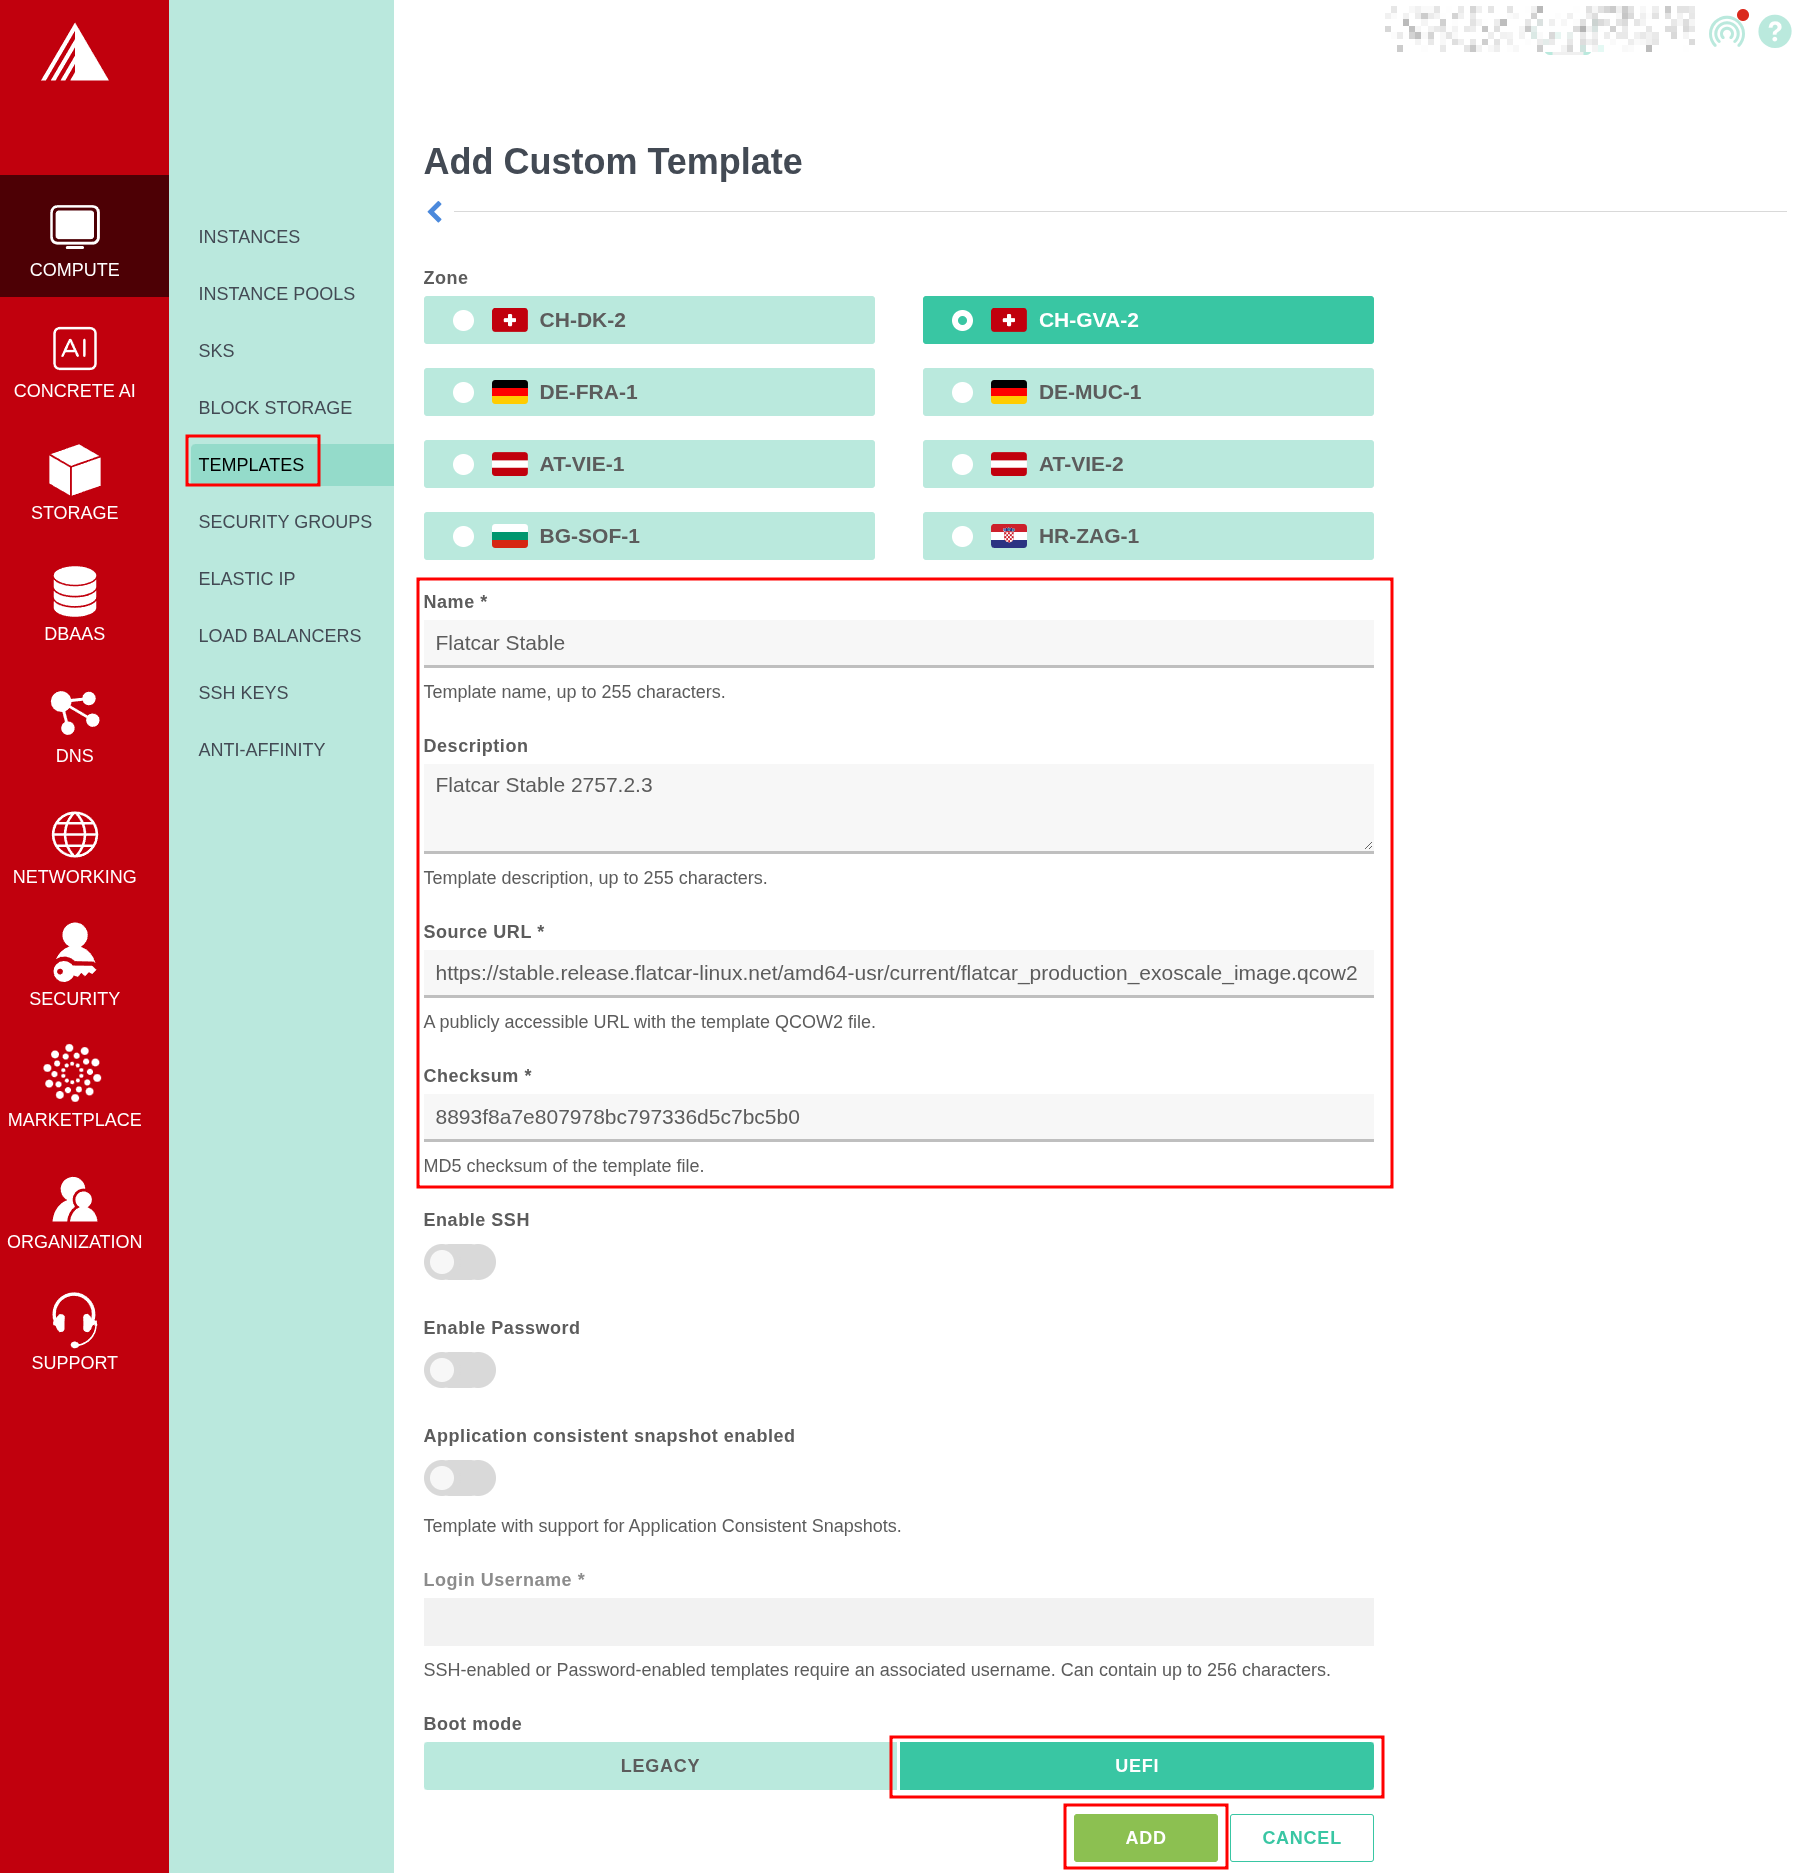
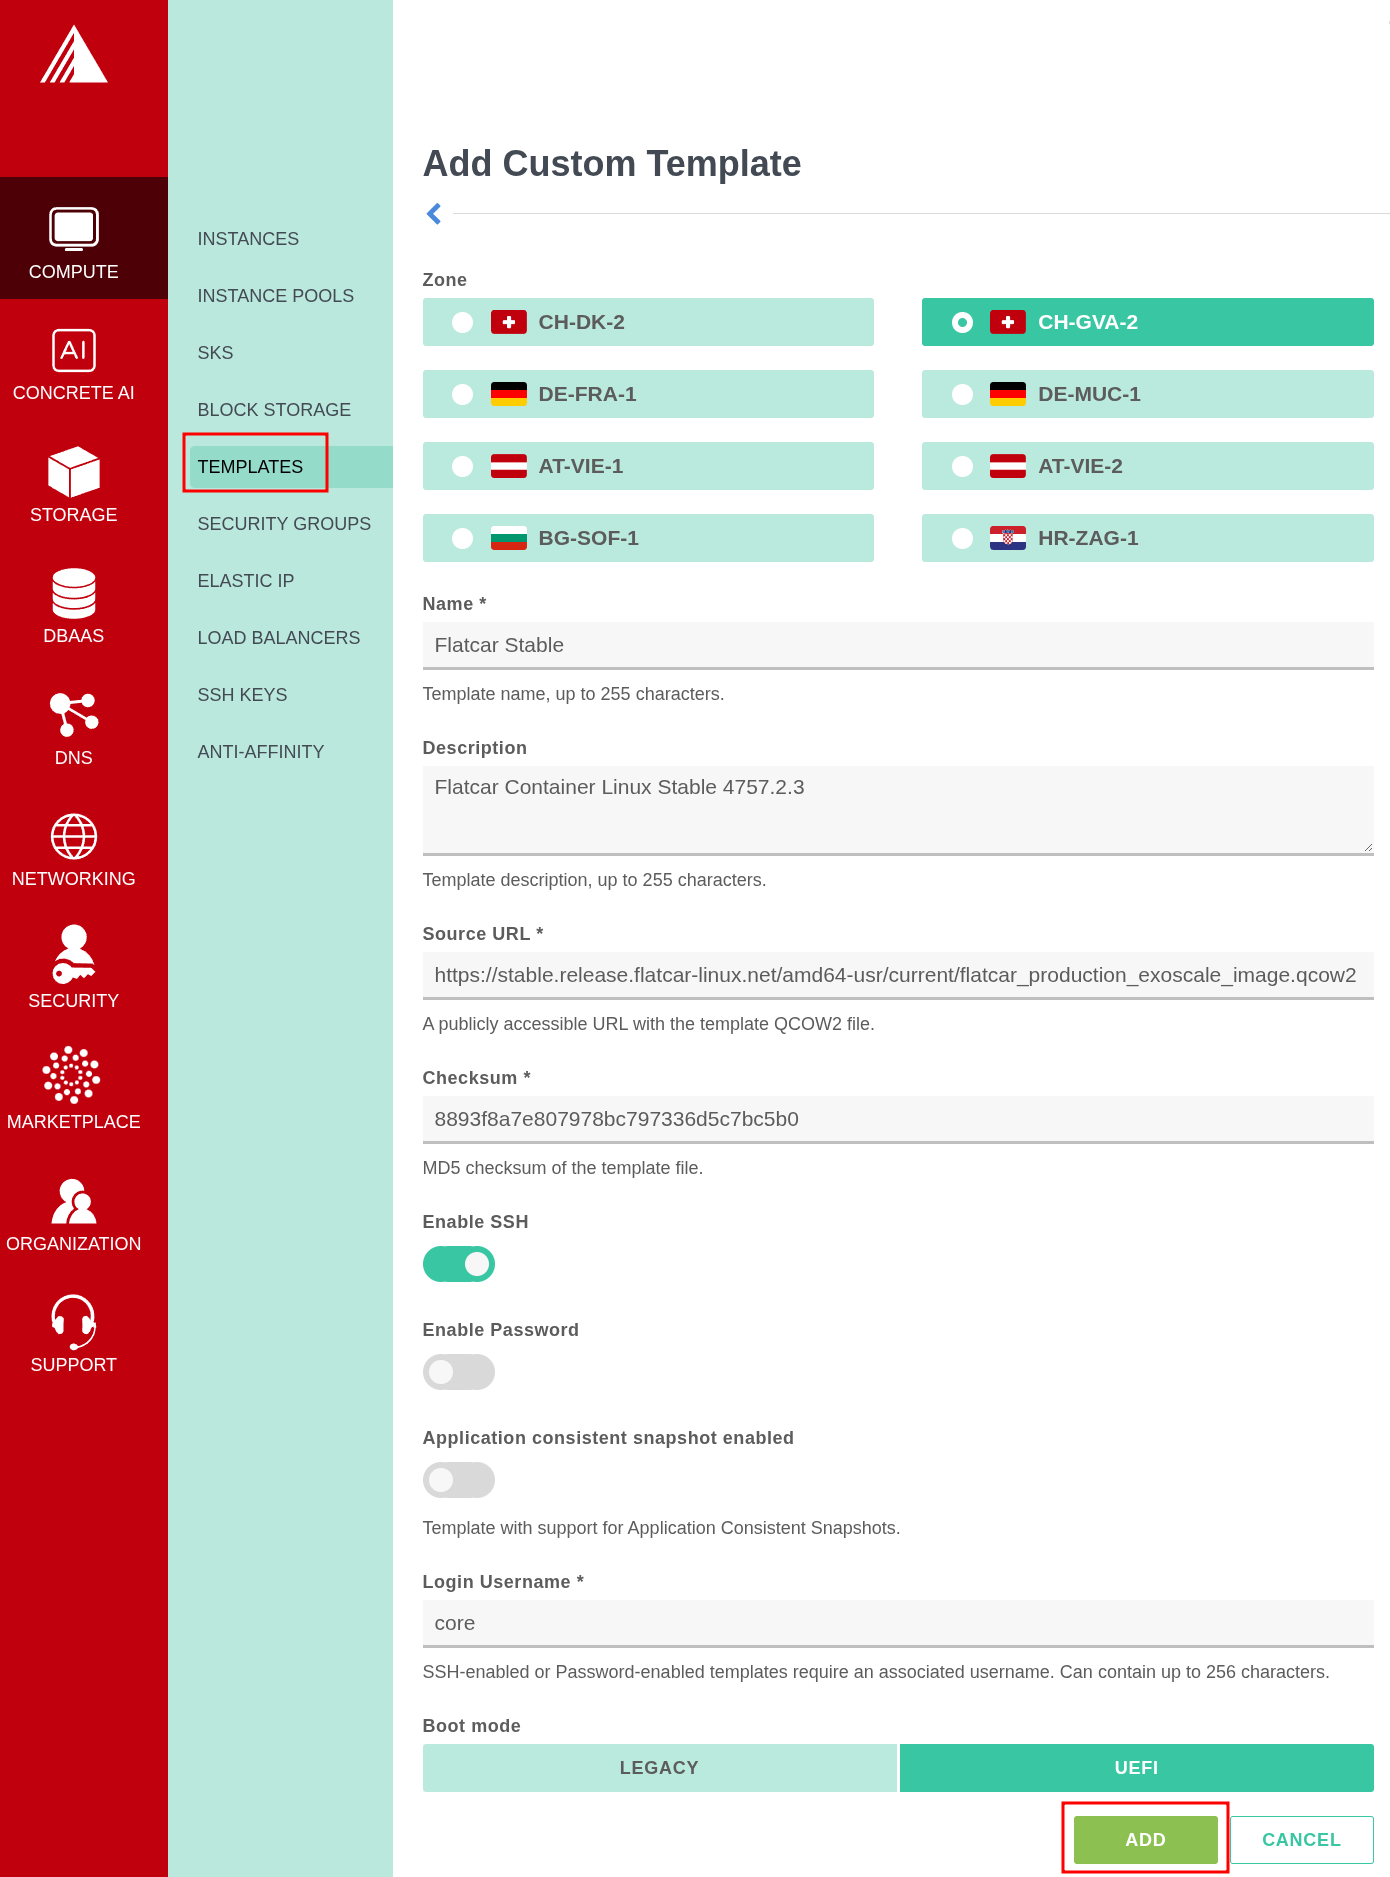
exoscale: document optional Exoscale SSH keypair setup
Add an optional section explaining how to register an SSH public key in
Exoscale via the Console or exo CLI and attach it during instance
creation. Clarify that the Exoscale OEM extension fetches the key from
the metadata service on boot.

diff --git a/content/docs/latest/deploy/cloud/exoscale.md b/content/docs/latest/deploy/cloud/exoscale.md
@@ -46,6 +46,35 @@ exo compute security-group rule add default --network ::/0 --port 22
 </div>
 </div>
 
+## SSH keys (optional)
+
+You can authorize SSH keys for the `core` user either through your [Butane Config](#butane-config) or by registering an [SSH keypair in Exoscale][exo-ssh-keys]. When an Exoscale SSH key is attached to an instance at creation time, the Flatcar Exoscale [OEM system extension][oem-sysext] ([`exoscale-ssh-key.service`][exo-oem-ssh]) automatically fetches the public key from the Exoscale metadata service on boot and adds it to the `core` user.
+
+<div id="exoscale-ssh-keys">
+<ul class="nav nav-tabs">
+  <li class="active"><a href="#ssh-console" class="active" data-bs-toggle="tab">Exoscale Console (Web UI)</a></li>
+  <li><a href="#ssh-cli" data-bs-toggle="tab">Exoscale CLI</a></li>
+</ul>
+<div class="tab-content coreos-docs-image-table">
+<div class="tab-pane active" id="ssh-console">
+
+In the Exoscale Console, navigate to **Compute > SSH Keys**, click **Import**, enter a **Name** (for example, `my-ssh-key`), paste your SSH **Public Key**, and click **Import**:
+
+![Importing an SSH key in the Exoscale Console](../../img/exoscale-ssh-key.png "Importing an SSH key in the Exoscale Console")
+
+</div>
+<div class="tab-pane" id="ssh-cli">
+
+Register your SSH public key with the CLI:
+
+```bash
+exo compute ssh-key register my-ssh-key ~/.ssh/id_ed25519.pub
+```
+
+</div>
+</div>
+</div>
+
 ## Custom templates
 
 Flatcar Container Linux is not currently one of the official templates provided by Exoscale (tracked in [flatcar/Flatcar#2164][exo-template-issue]), so you must first register the Flatcar Exoscale `.qcow2` image for your desired [release channel][release-notes] (`stable`, `beta`, `alpha`, or `lts`) as an [Exoscale Custom Template][exo-custom-templates].
@@ -57,7 +86,7 @@ For the Stable channel, the image URL and MD5 checksum file are:
 
 > **Note:** Custom templates are zone-specific; the template's zone must match the zone where you intend to deploy your compute instances.
 
-> **Note:** It is not necessary to enable SSH on the custom template because SSH keys are configured through Ignition.
+> **Note:** Keep SSH enabled on the custom template with the default username set to `core` if you plan to attach [Exoscale SSH keys](#ssh-keys-optional) when creating instances, or disable it if you only configure SSH keys through Ignition.
 
 > **Important:** Running instances [update automatically][update-strategies], but newly created instances will start from the image version registered in the custom template. If you regularly provision new instances, update your custom template as new releases are published.
 
@@ -72,7 +101,7 @@ For the Stable channel, the image URL and MD5 checksum file are:
 1. Navigate to **Compute > Templates** and click **Add**.
 2. Select your target **Zone** and enter a **Name** (for example, `Flatcar Stable`).
 3. Enter the **Source URL** and the MD5 **Checksum** from the `.DIGESTS` file.
-4. Leave **Enable SSH** and **Enable Password** disabled, set **Boot mode** to **UEFI**, and click **Add**.
+4. Keep **Enable SSH** enabled with **Login Username** set to `core` (or disable **Enable SSH** if only using Ignition for SSH keys), disable **Enable Password**, set **Boot mode** to **UEFI**, and click **Add**.
 
 ![Registering a Flatcar custom template](../../img/exoscale-custom-template.png "Registering a Flatcar custom template")
 
@@ -91,6 +120,8 @@ exo compute instance-template register \
   "${IMAGE_URL}" \
   "${MD5_SUM}" \
   --zone "${ZONE}" \
+  --username core \
+  --disable-password \
   --boot-mode uefi
 ```
 
@@ -102,6 +133,8 @@ exo compute instance-template register \
 
 Flatcar Container Linux is configured on first boot using [Ignition][ignition]. Write a human-readable [Butane Config][butane-configs] and transpile it into an Ignition JSON file to pass as instance user data.
 
+> **Note:** If you registered an [SSH key in Exoscale](#ssh-keys-optional) and do not need any additional first-boot configuration, you can skip this section and leave the instance User Data empty.
+
 Create a minimal `config.bu` file that authorizes your SSH public key for the default `core` user:
 
 ```yaml
@@ -110,8 +143,15 @@ version: 1.0.0
 passwd:
   users:
     - name: core
+      # Optional if the instance is created with an Exoscale SSH key,
+      # as it will be fetched from the metadata service on boot.
       ssh_authorized_keys:
         - ssh-ed25519 AAAAC3...
+# Additional configuration (such as storage or systemd units for containers) goes here:
+# storage:
+#   files: ...
+# systemd:
+#   units: ...
 ```
 
 Transpile `config.bu` to an Ignition configuration (`config.ign`):
@@ -139,18 +179,22 @@ Create a new compute instance from the custom template and provide `config.ign` 
    ![Selecting the Flatcar custom template](../../img/exoscale-instance-template.png "Selecting the Flatcar custom template")
 
 3. Select the **Zone** matching your custom template, choose the **Standard - Micro** instance type, and set **Disk Size** to `10 GiB`.
-4. Paste the contents of `config.ign` into the **User Data** field:
+4. Under **SSH Keys**, select the SSH key you imported earlier (for example, `my-ssh-key`), or check **Do not use SSH keypairs** if configuring SSH keys only through Ignition:
+
+   ![Selecting an SSH key for the instance](../../img/exoscale-instance-ssh-key.png "Selecting an SSH key for the instance")
+
+5. Paste the contents of `config.ign` into the **User Data** field (leave empty if you skipped creating an Ignition configuration):
 
    ![Providing the Ignition configuration as User Data](../../img/exoscale-instance-userdata.png "Providing the Ignition configuration as User Data")
 
-5. Review the instance settings and click **Add**:
+6. Review the instance settings and click **Add**:
 
    ![Reviewing and launching the instance](../../img/exoscale-instance-summary.png "Reviewing and launching the instance")
 
 </div>
 <div class="tab-pane" id="launch-cli">
 
-Create the instance with the CLI:
+Create the instance with the CLI (omit `--ssh-key` if you did not register an SSH key in Exoscale, or omit `--cloud-init` if you skipped creating an Ignition configuration):
 
 ```bash
 ZONE=ch-gva-2 # Must match the zone of the custom template
@@ -161,6 +205,7 @@ exo compute instance create hello-world \
   --template-visibility private \
   --instance-type standard.micro \
   --disk-size 10 \
+  --ssh-key my-ssh-key \
   --cloud-init config.ign
 ```
 
@@ -187,10 +232,13 @@ Now that you have a machine booted it is time to play around. Check out the [Fla
 [exo-cli]: https://community.exoscale.com/tools/command-line-interface/
 [exo-console]: https://portal.exoscale.com/
 [exo-custom-templates]: https://community.exoscale.com/product/compute/instances/how-to/custom-templates/
+[exo-oem-ssh]: https://github.com/flatcar/scripts/blob/main/sdk_container/src/third_party/coreos-overlay/coreos-base/oem-exoscale/files/exoscale-ssh-key
 [exo-sg]: https://community.exoscale.com/product/networking/security-group/
+[exo-ssh-keys]: https://community.exoscale.com/product/compute/instances/how-to/ssh-keypairs/
 [exo-template-issue]: https://github.com/flatcar/Flatcar/issues/2164
 [exoscale]: https://www.exoscale.com/
 [ignition]: ../../fb-provision/ignition/
+[oem-sysext]: ../../sys-ext/#official-system-extensions
 [quickstart]: ../../getting-started/quickstart/
 [release-notes]: https://www.flatcar.org/releases/
 [update-strategies]: ../../updates-releases/releases/update-strategies/
